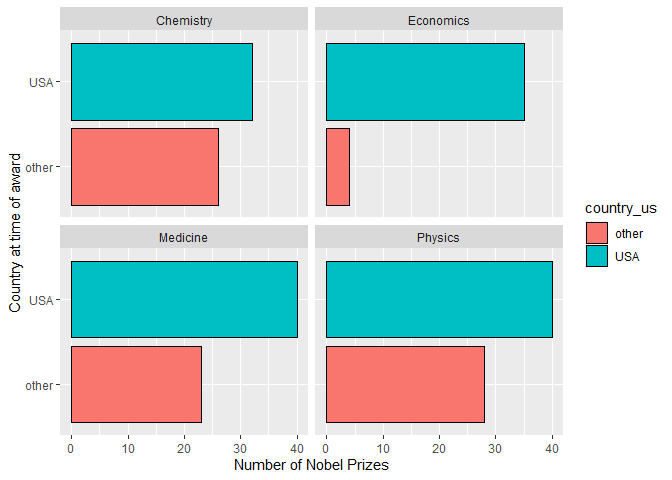
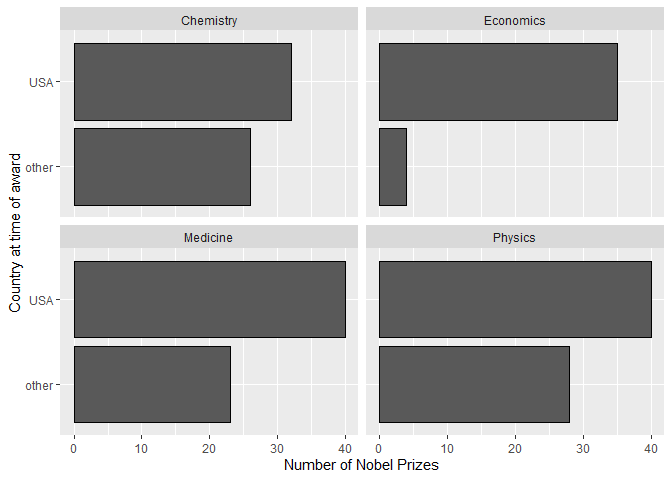
Finished exercises 3-6

diff --git a/lab-03.md b/lab-03.md
@@ -102,6 +102,10 @@ glimpse(nobel_living)
 
 ### Exercise 3
 
+This code chunk creates the dataset that we need to answer the question
+in Exercise 3, showing how many nobel laureates in the sciences were
+based in the US or somewhere else when they got their prize.
+
 ``` r
 #creating USA variable
 nobel_living <- nobel_living %>%
@@ -112,27 +116,67 @@ nobel_living_science <- nobel_living %>%
   filter(category %in% c("Physics", "Medicine", "Chemistry", "Economics"))
 ```
 
+The visualization shows that, generally, nobel prizes for the sciences
+have more often been awarded to people living in the US than people
+living elsewhere. This difference is the greatest for Economics, while
+the difference is smallest for Chemistry. This supports Buzzfeed’s claim
+that “Most living Nobel laureates in the sciences are based in the US.”
+
 ``` r
 ggplot(data = nobel_living_science,
-       aes(x = country_us,
-           fill = country_us))+
+       aes(x = country_us))+
   geom_bar(color = "black")+
   facet_wrap(~ category)+
   coord_flip()+
   labs(y = "Number of Nobel Prizes",
-       x = "Country at time of award",
-       color = "Country")
+       x = "Country at time of award")
 ```
 
 ![](lab-03_files/figure-gfm/visualizing-category-country-1.png)<!-- -->
 \### Exercise 4
 
-…
+``` r
+nobel_living_science <- nobel_living_science %>%
+  mutate(born_country_us = if_else(born_country == "USA", "USA", "other"))
+```
 
 ### Exercise 5
 
-…
+``` r
+ggplot(data = nobel_living_science,
+       aes(x = country_us,
+           fill = born_country_us))+
+  geom_bar(color = "black", position = "stack")+
+  scale_fill_manual(values = c("grey", "black"))+
+  facet_wrap(~ category)+
+  coord_flip()+
+  labs(y = "Number of Nobel Prizes",
+       x = "Country at time of award",
+       fill = "Country of birth")
+```
+
+![](lab-03_files/figure-gfm/visualizing-country-by-birth-country-1.png)<!-- -->
 
 ### Exercise 6
 
-…
+``` r
+nobel_living_science %>%
+  filter(country_us == "USA", born_country_us == "other") %>%
+  count(born_country) %>%
+  arrange(desc(n))
+```
+
+    ## # A tibble: 21 × 2
+    ##    born_country       n
+    ##    <chr>          <int>
+    ##  1 Germany            7
+    ##  2 United Kingdom     7
+    ##  3 China              5
+    ##  4 Canada             4
+    ##  5 Japan              3
+    ##  6 Australia          2
+    ##  7 Israel             2
+    ##  8 Norway             2
+    ##  9 Austria            1
+    ## 10 Finland            1
+    ## # … with 11 more rows
